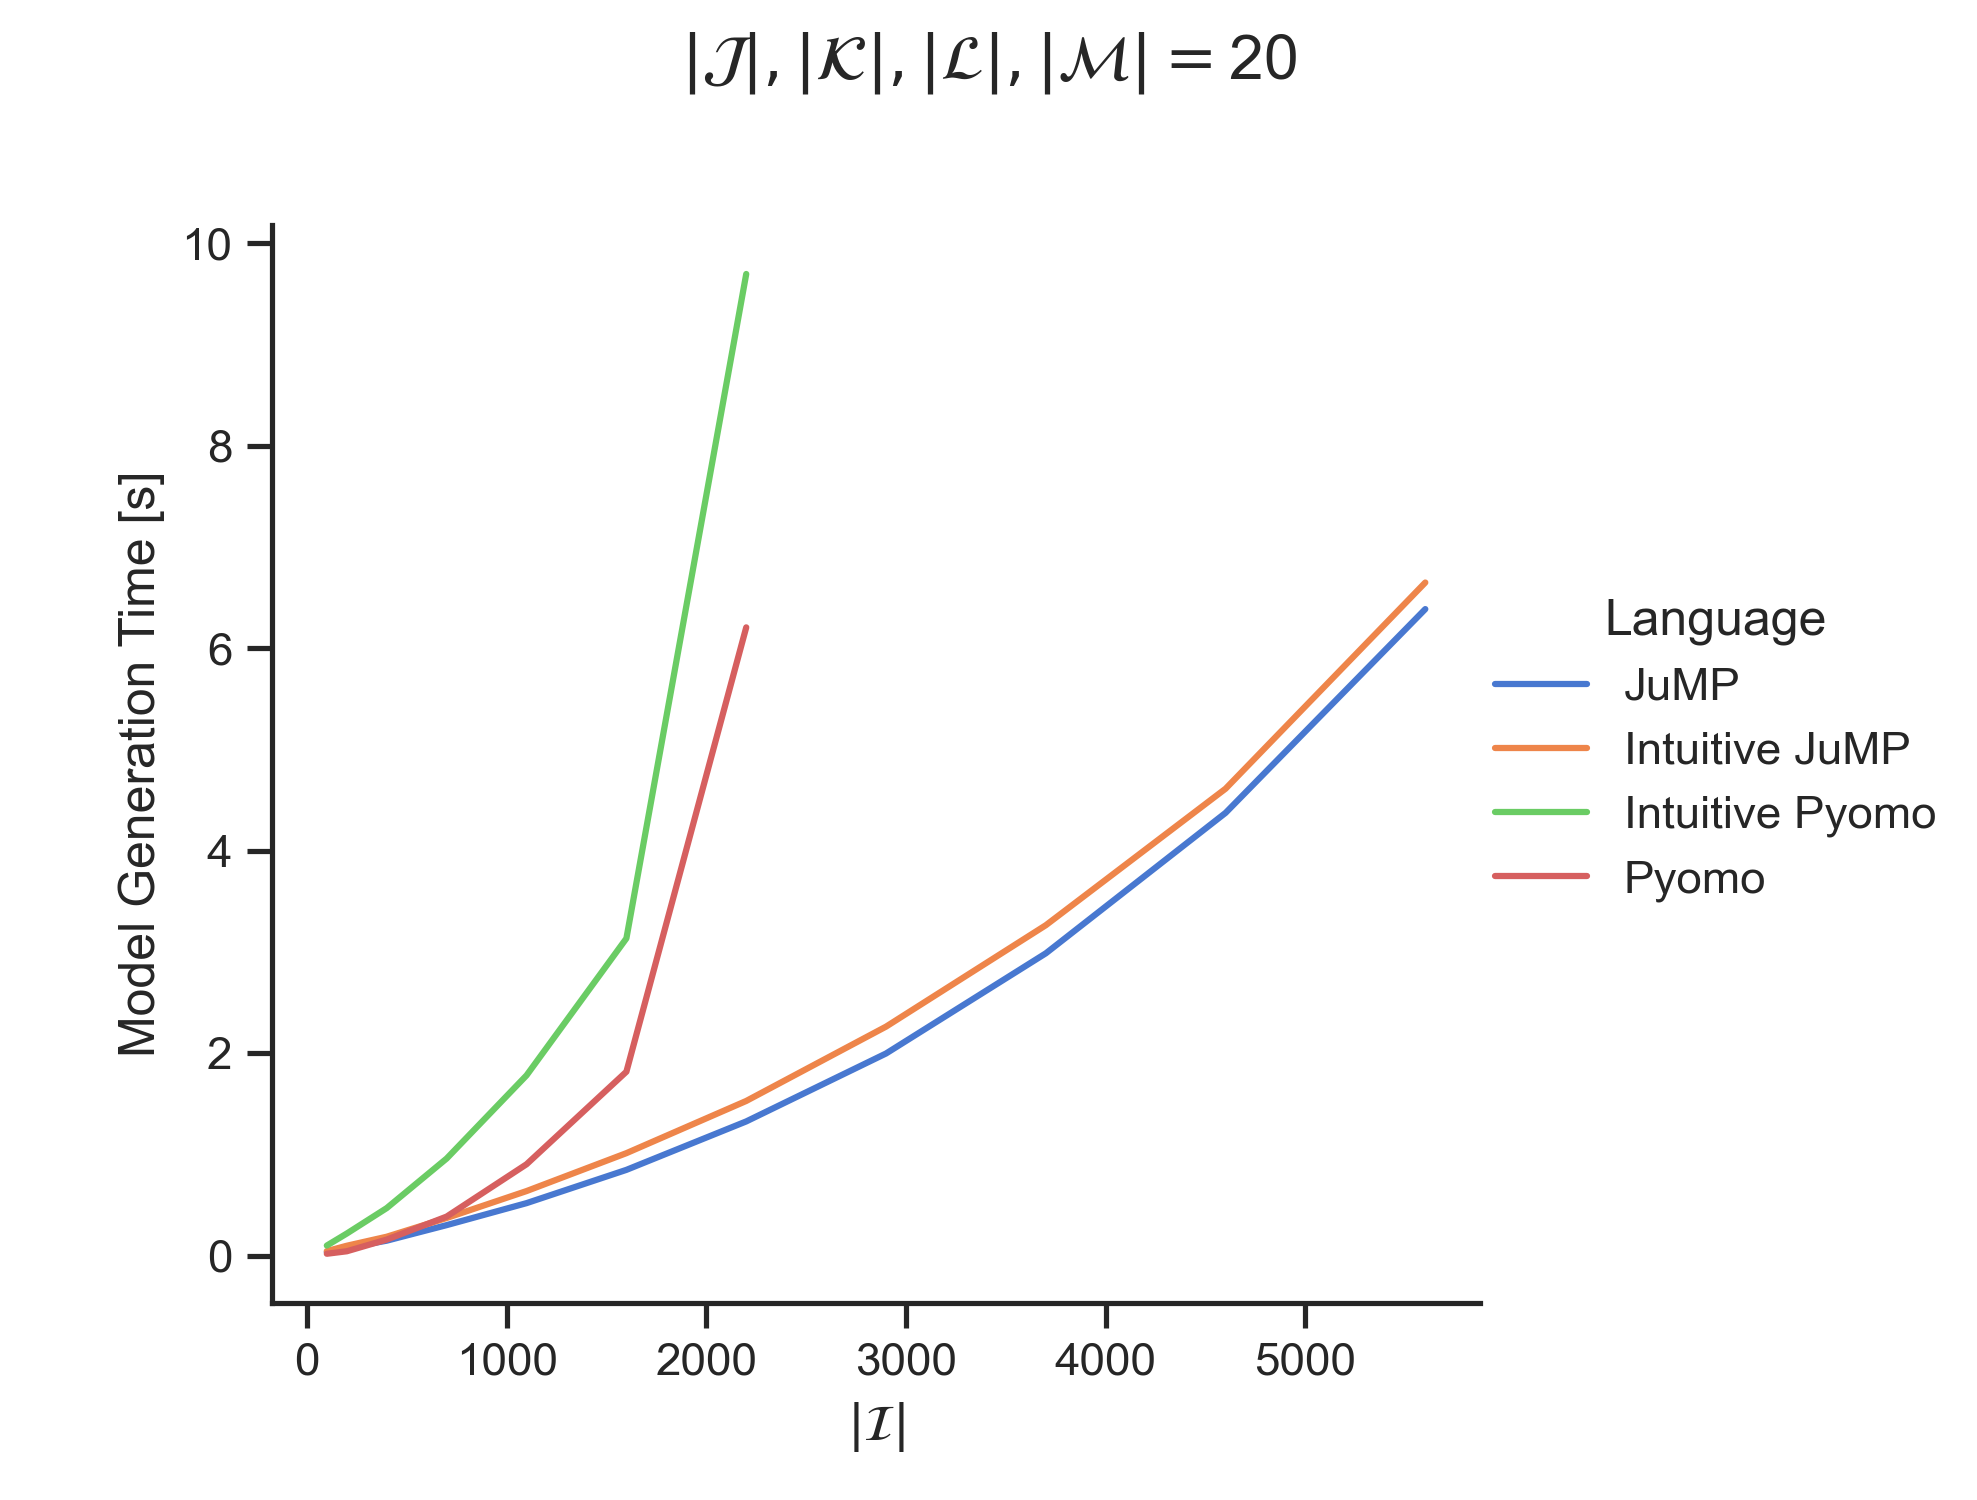
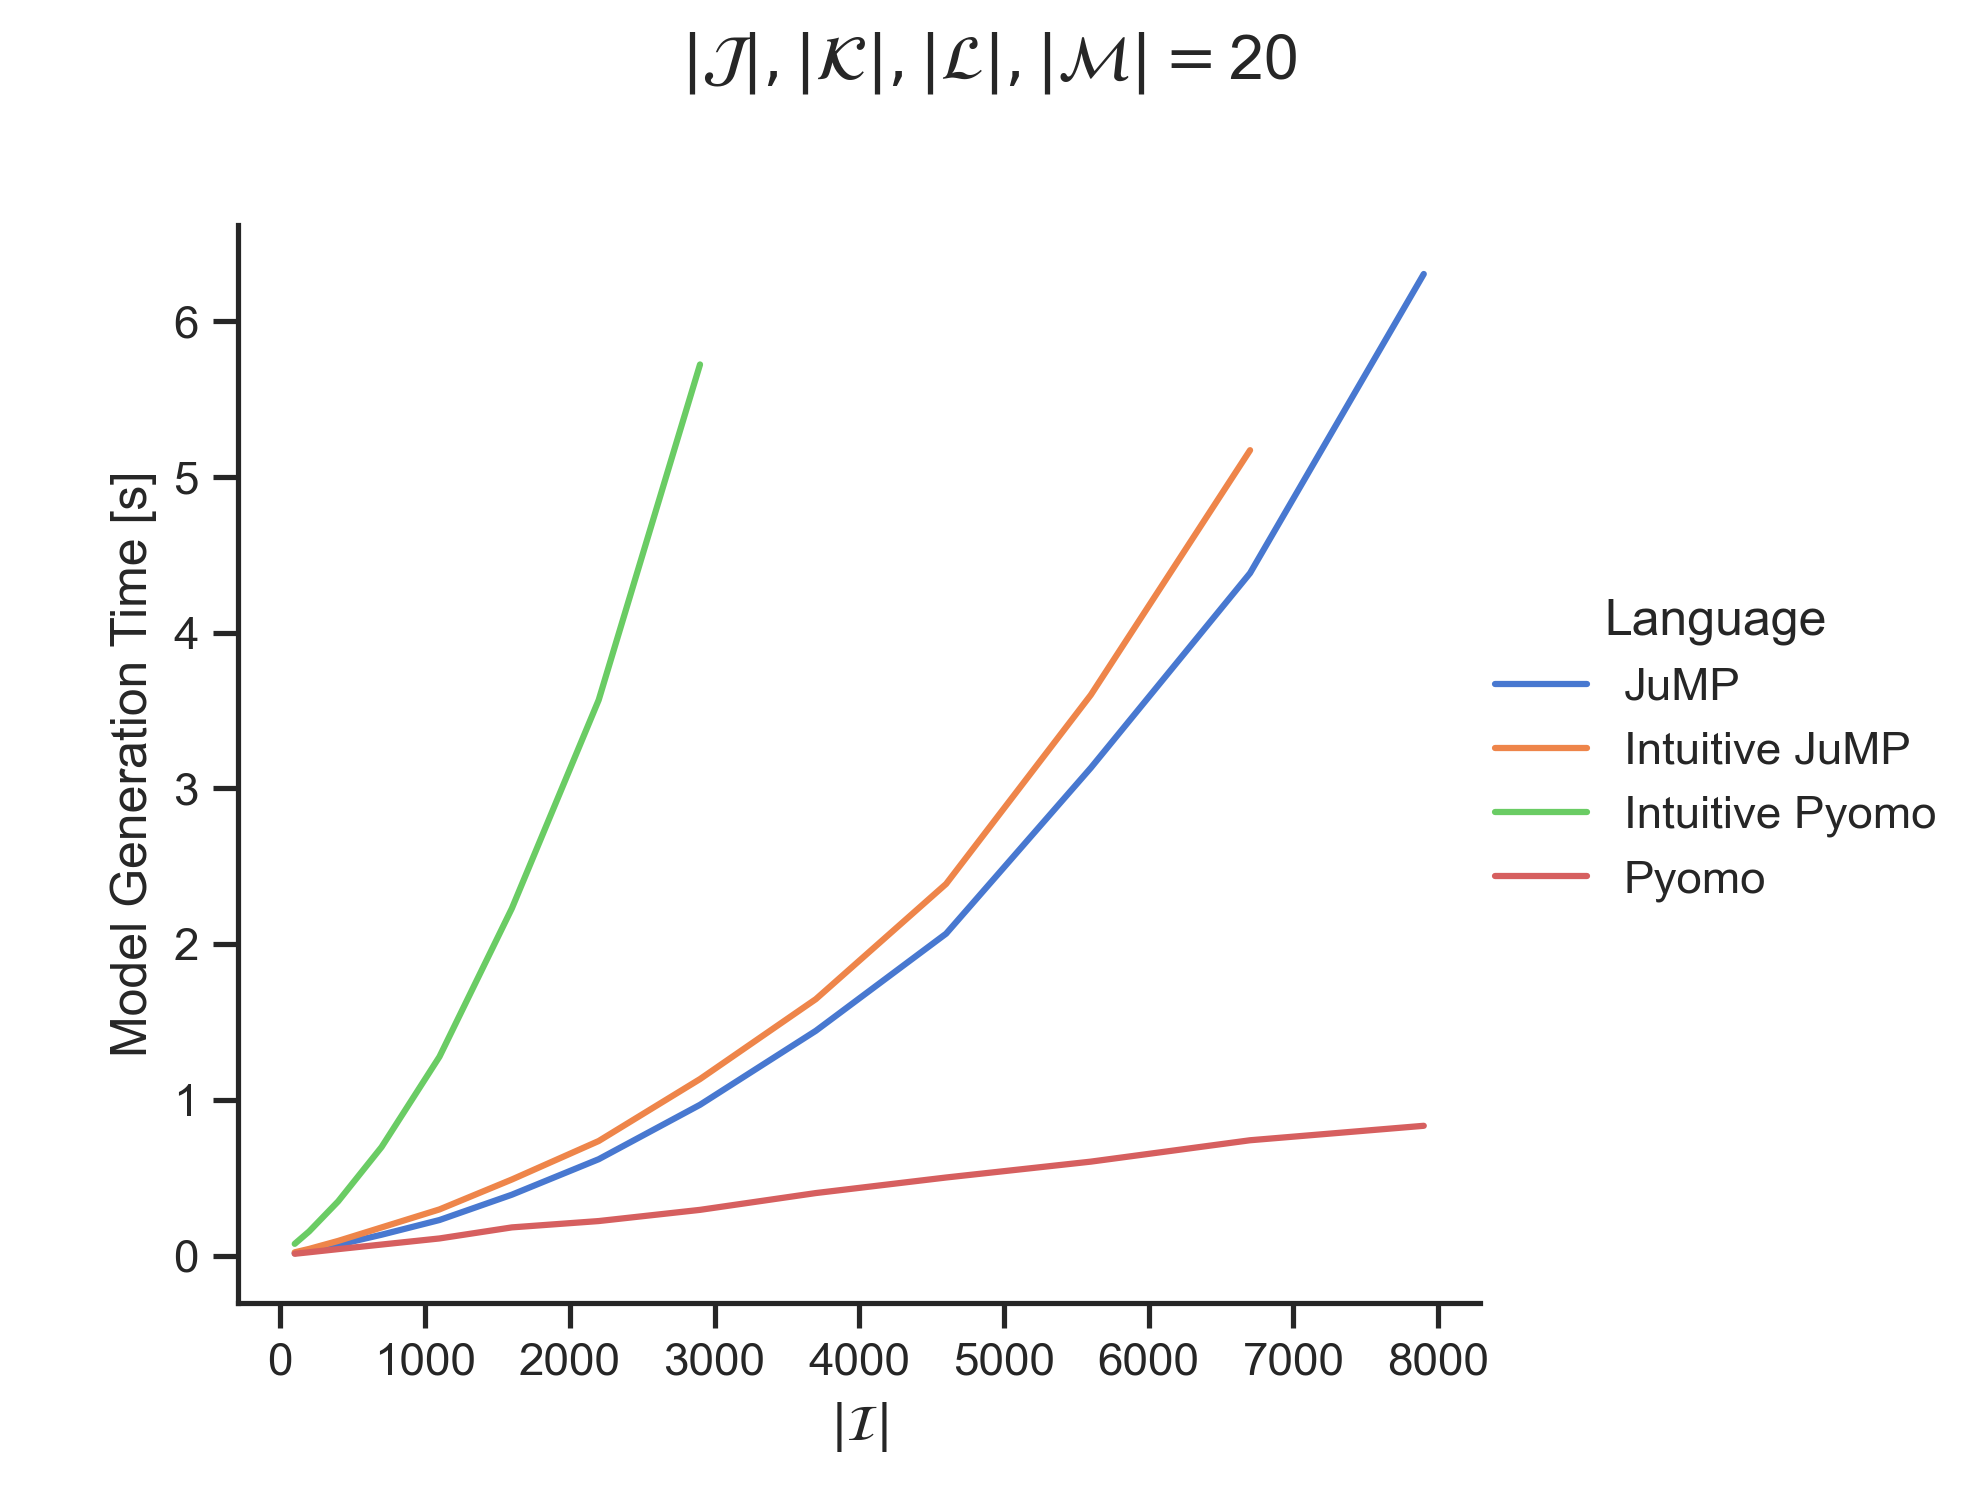
implemented changes John suggested here: https://stackoverflow.com/a/76329294/20998614

diff --git a/IJKLM/run_pyomo.py b/IJKLM/run_pyomo.py
@@ -3,6 +3,7 @@ import logging
 import timeit
 import pandas as pd
 import numpy as np
+import itertools, operator
 
 logging.getLogger("pyomo.core").setLevel(logging.ERROR)
 
@@ -121,9 +122,13 @@ def pyomo(I, IJK, JKL, KLM, solve):
         (i, j, k, l, m) for (i, j, k) in IJK for l in JKL[j, k] for m in KLM[k, l]
     ]
 
-    constraint_dict_i = {
-        ii: ((i, j, k, l, m) for (i, j, k, l, m) in x_list if i == ii) for ii in I
-    }
+    constraint_dict_i = {i: [] for i in I}
+    constraint_dict_i.update(
+        {
+            i: list(j)
+            for i, j in itertools.groupby(sorted(x_list), operator.itemgetter(0))
+        }
+    )
 
     model.x_list = pyo.Set(initialize=x_list)
     model.c_dict_i = pyo.Set(model.I, initialize=constraint_dict_i)
@@ -142,4 +147,6 @@ def pyomo(I, IJK, JKL, KLM, solve):
 
 
 def ei_rule(model, i):
-    return sum(model.x[i, j, k, l, m] for i, j, k, l, m in model.c_dict_i[i]) >= 0
+    if not model.c_dict_i[i]:
+        return pyo.Constraint.Skip
+    return sum(model.x[idx] for idx in model.c_dict_i[i]) >= 0
